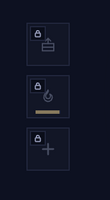
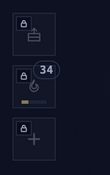
Recapture the #336 evidence at the chip-keying fix
Eight captures and the DOM ledger re-made at ec77319: the lock chip no
longer dresses the thumb bar's always-open Collection segment, so the
flow captures show the four legitimate locks with Collection standing
bare beside them as the non-color contrast.

diff --git a/docs/evidence/336-flow-locks/README.md b/docs/evidence/336-flow-locks/README.md
@@ -3,8 +3,12 @@
 Source: issue #336, working tree on `t3code/implement-issue-336`. Launched
 this checkout with `npm run dev`; the provenance endpoint
 (`/-/dev/provenance`) returned this worktree, branch, and commit
-(`8fb5ff228c325e9b4059c890cb58fce2023cfc44`) before any capture, matching
-`git rev-parse` in the checkout.
+(`ec7731909b6fe5be3a514f863a69667b747d50eb`) before every capture, matching
+`git rev-parse` in the checkout. This is a recapture at the head after the
+chip-keying fix (`ec77319`): the lock chip now rides the gate each action
+declares, so the thumb bar's Collection — never flow-gated — wears no chip;
+the first capture pass (at `8fb5ff2`) predated that fix and its DOM ledger
+was wrong about Collection.
 
 The T3 preview viewport resize timed out on all three attempts (the bounded
 budget in [visual evidence](../../agents/visual-evidence.md)), so the phone
